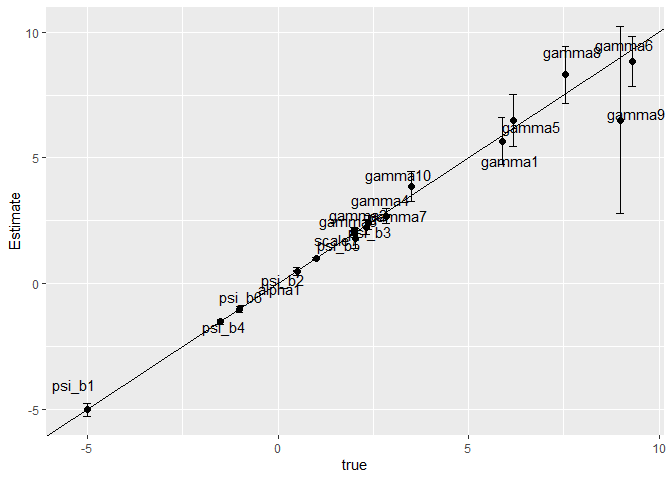
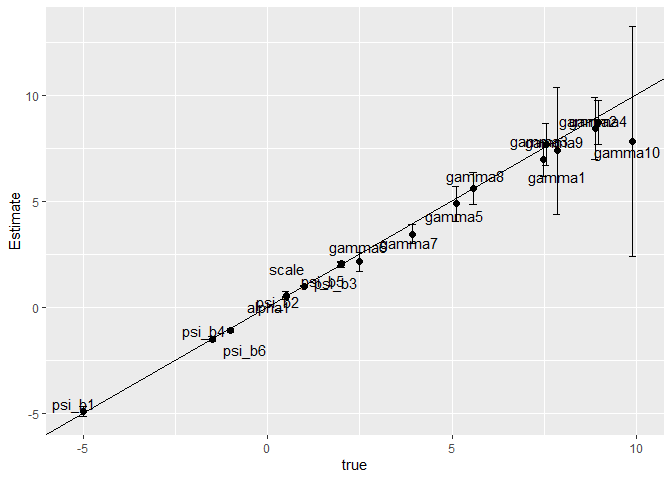
add mac installation issue

diff --git a/README.md b/README.md
@@ -35,12 +35,19 @@ Models can be estimated using
 
 ## Installation
 
+*Note that currently the package only installs on linux and windows*
+
 I recommend you first install **rstan** by following these steps:
 
 <https://github.com/stan-dev/rstan/wiki/RStan-Getting-Started>
 
-Once **rstan** is installed, you can install the released version of
-**rmdcev** from GitHub using devtools
+Once **rstan** is installed, you can install **rmdcev** from CRAN using
+
+``` r
+install.packages("rmdcev")
+```
+
+Or install the latest version of **rmdcev** from GitHub using devtools
 
 ``` r
 if (!require(devtools)) {
@@ -96,6 +103,7 @@ our estimation results.
 ``` r
 library(pacman)
 p_load(tidyverse, rmdcev)
+set.seed(12345)
 model <- "gamma"
 nobs <- 2000
 nalts <- 10
@@ -115,22 +123,22 @@ mdcev_est <- mdcev(~ b1 + b2 + b3 + b4 + b5 + b6,
                    model = model,
                    algorithm = "MLE")
 #> Using MLE to estimate KT model
-#> Chain 1: Initial log joint probability = -102091
+#> Chain 1: Initial log joint probability = -100801
 #> Chain 1:     Iter      log prob        ||dx||      ||grad||       alpha      alpha0  # evals  Notes 
 #> Chain 1: Error evaluating model log probability: Non-finite gradient.
 #> Error evaluating model log probability: Non-finite gradient.
 #> 
-#> Chain 1:       19      -36191.9      0.238697        170.87           1           1       33   
+#> Chain 1:       19      -35837.5      0.834357       710.653           1           1       38   
 #> Chain 1:     Iter      log prob        ||dx||      ||grad||       alpha      alpha0  # evals  Notes 
-#> Chain 1:       39      -36099.7       0.09316       104.396           1           1       54   
+#> Chain 1:       39      -35733.9     0.0404306       61.8681      0.7313      0.7313       58   
 #> Chain 1:     Iter      log prob        ||dx||      ||grad||       alpha      alpha0  # evals  Notes 
-#> Chain 1:       59      -36075.1     0.0173156       53.9469      0.3078      0.3078       80   
+#> Chain 1:       59      -35725.9     0.0298134       12.9001       0.994       0.994       80   
 #> Chain 1:     Iter      log prob        ||dx||      ||grad||       alpha      alpha0  # evals  Notes 
-#> Chain 1:       79      -36072.3     0.0278811       12.2672           1           1      103   
+#> Chain 1:       79      -35723.7     0.0276683       16.9662           1           1      102   
 #> Chain 1:     Iter      log prob        ||dx||      ||grad||       alpha      alpha0  # evals  Notes 
-#> Chain 1:       99      -36072.2    0.00180446      0.959796           1           1      124   
+#> Chain 1:       99      -35723.4    0.00404058       2.37686           1           1      123   
 #> Chain 1:     Iter      log prob        ||dx||      ||grad||       alpha      alpha0  # evals  Notes 
-#> Chain 1:      107      -36072.2   0.000747187      0.522778      0.9515      0.9515      135   
+#> Chain 1:      108      -35723.4   0.000840364      0.431756           1           1      133   
 #> Chain 1: Optimization terminated normally: 
 #> Chain 1:   Convergence detected: relative gradient magnitude is below tolerance
 ```
@@ -146,37 +154,37 @@ summary(mdcev_est)
 #> Number of individuals            : 2000
 #> Number of non-numeraire alts     : 10
 #> Estimated parameters             : 18
-#> LL                               : -36072.19
-#> AIC                              : 72180.38
-#> BIC                              : 72281.2
+#> LL                               : -35723.35
+#> AIC                              : 71482.7
+#> BIC                              : 71583.52
 #> Standard errors calculated using : Delta method
 #> Exit of MLE                      : successful convergence
-#> Time taken (hh:mm:ss)            : 00:00:2.85
+#> Time taken (hh:mm:ss)            : 00:00:3.52
 #> 
 #> Average consumption of non-numeraire alternatives:
 #>     1     2     3     4     5     6     7     8     9    10 
-#>  7.18  0.95 16.85 11.57  8.81 58.15 18.51 17.74  0.30  6.56 
+#> 59.90 10.43  0.84 71.64  4.89  1.46 10.40 13.49 21.86  0.37 
 #> 
 #> Parameter estimates --------------------------------  
 #>           Estimate Std.err z.stat
-#> psi_b1      -5.012   0.126 -39.78
-#> psi_b2       0.484   0.082   5.91
-#> psi_b3       2.107   0.074  28.47
-#> psi_b4      -1.513   0.055 -27.52
-#> psi_b5       2.015   0.047  42.86
-#> psi_b6      -1.027   0.053 -19.38
-#> gamma_1      5.673   0.480  11.82
-#> gamma_2      1.799   0.207   8.69
-#> gamma_3      2.237   0.140  15.98
-#> gamma_4      2.440   0.147  16.60
-#> gamma_5      6.482   0.527  12.30
-#> gamma_6      8.840   0.512  17.27
-#> gamma_7      2.684   0.156  17.20
-#> gamma_8      8.299   0.573  14.48
-#> gamma_9      6.507   1.892   3.44
-#> gamma_10     3.867   0.313  12.36
-#> alpha_num    0.501   0.008  62.67
-#> scale        1.006   0.015  67.04
+#> psi_b1      -4.897   0.115 -42.58
+#> psi_b2       0.556   0.091   6.11
+#> psi_b3       2.010   0.062  32.42
+#> psi_b4      -1.501   0.057 -26.33
+#> psi_b5       2.079   0.046  45.20
+#> psi_b6      -1.089   0.055 -19.79
+#> gamma_1      6.971   0.411  16.96
+#> gamma_2      8.437   0.740  11.40
+#> gamma_3      7.373   1.526   4.83
+#> gamma_4      8.724   0.534  16.34
+#> gamma_5      4.876   0.425  11.47
+#> gamma_6      2.142   0.234   9.15
+#> gamma_7      3.445   0.232  14.85
+#> gamma_8      5.589   0.385  14.52
+#> gamma_9      7.669   0.509  15.07
+#> gamma_10     7.822   2.758   2.84
+#> alpha_num    0.503   0.008  62.86
+#> scale        1.000   0.015  66.70
 #> Note: All non-numeraire alpha's fixed to 0.
 ```
 
@@ -191,24 +199,24 @@ coefs <- as_tibble(sim.data$parms_true) %>%
 
 head(coefs, 200)
 #>      parms      true Estimate Std.err z.stat    cl_lo    cl_hi
-#> 1   psi_b1 -5.000000   -5.012   0.126 -39.78 -5.25896 -4.76504
-#> 2   psi_b2  0.500000    0.484   0.082   5.91  0.32328  0.64472
-#> 3   psi_b3  2.000000    2.107   0.074  28.47  1.96196  2.25204
-#> 4   psi_b4 -1.500000   -1.513   0.055 -27.52 -1.62080 -1.40520
-#> 5   psi_b5  2.000000    2.015   0.047  42.86  1.92288  2.10712
-#> 6   psi_b6 -1.000000   -1.027   0.053 -19.38 -1.13088 -0.92312
-#> 7   gamma1  5.880124    5.673   0.480  11.82  4.73220  6.61380
-#> 8   gamma2  2.037718    1.799   0.207   8.69  1.39328  2.20472
-#> 9   gamma3  2.326599    2.237   0.140  15.98  1.96260  2.51140
-#> 10  gamma4  2.378944    2.440   0.147  16.60  2.15188  2.72812
-#> 11  gamma5  6.188133    6.482   0.527  12.30  5.44908  7.51492
-#> 12  gamma6  9.298275    8.840   0.512  17.27  7.83648  9.84352
-#> 13  gamma7  2.845774    2.684   0.156  17.20  2.37824  2.98976
-#> 14  gamma8  7.553436    8.299   0.573  14.48  7.17592  9.42208
-#> 15  gamma9  8.992650    6.507   1.892   3.44  2.79868 10.21532
-#> 16 gamma10  3.494510    3.867   0.313  12.36  3.25352  4.48048
-#> 17  alpha1  0.500000    0.501   0.008  62.67  0.48532  0.51668
-#> 18   scale  1.000000    1.006   0.015  67.04  0.97660  1.03540
+#> 1   psi_b1 -5.000000   -4.897   0.115 -42.58 -5.12240 -4.67160
+#> 2   psi_b2  0.500000    0.556   0.091   6.11  0.37764  0.73436
+#> 3   psi_b3  2.000000    2.010   0.062  32.42  1.88848  2.13152
+#> 4   psi_b4 -1.500000   -1.501   0.057 -26.33 -1.61272 -1.38928
+#> 5   psi_b5  2.000000    2.079   0.046  45.20  1.98884  2.16916
+#> 6   psi_b6 -1.000000   -1.089   0.055 -19.79 -1.19680 -0.98120
+#> 7   gamma1  7.488135    6.971   0.411  16.96  6.16544  7.77656
+#> 8   gamma2  8.881959    8.437   0.740  11.40  6.98660  9.88740
+#> 9   gamma3  7.848841    7.373   1.526   4.83  4.38204 10.36396
+#> 10  gamma4  8.975121    8.724   0.534  16.34  7.67736  9.77064
+#> 11  gamma5  5.108329    4.876   0.425  11.47  4.04300  5.70900
+#> 12  gamma6  2.497346    2.142   0.234   9.15  1.68336  2.60064
+#> 13  gamma7  3.925858    3.445   0.232  14.85  2.99028  3.89972
+#> 14  gamma8  5.583019    5.589   0.385  14.52  4.83440  6.34360
+#> 15  gamma9  7.549347    7.669   0.509  15.07  6.67136  8.66664
+#> 16 gamma10  9.907632    7.822   2.758   2.84  2.41632 13.22768
+#> 17  alpha1  0.500000    0.503   0.008  62.86  0.48732  0.51868
+#> 18   scale  1.000000    1.000   0.015  66.70  0.97060  1.02940
 ```
 
 Compare outputs using a figure
@@ -248,11 +256,11 @@ wtp <- mdcev.sim(df_sim$df_indiv,
                  sim_type = "welfare")
 #> Using general approach in simulation...
 #> 
-#> 6.00e+04simulations finished in0.4minutes.(2477per second)
+#> 6.00e+04simulations finished in0.41minutes.(2426per second)
 summary(wtp)
 #> # A tibble: 2 x 5
-#>   policy      mean std.dev `ci_lo2.5%` `ci_hi97.5%`
-#>   <chr>      <dbl>   <dbl>       <dbl>        <dbl>
-#> 1 policy1 4.19e-11      NA    4.19e-11     4.19e-11
-#> 2 policy2 4.19e-11      NA    4.19e-11     4.19e-11
+#>   policy       mean std.dev `ci_lo2.5%` `ci_hi97.5%`
+#>   <chr>       <dbl>   <dbl>       <dbl>        <dbl>
+#> 1 policy1 -3.63e-11      NA   -3.63e-11    -3.63e-11
+#> 2 policy2 -3.63e-11      NA   -3.63e-11    -3.63e-11
 ```
